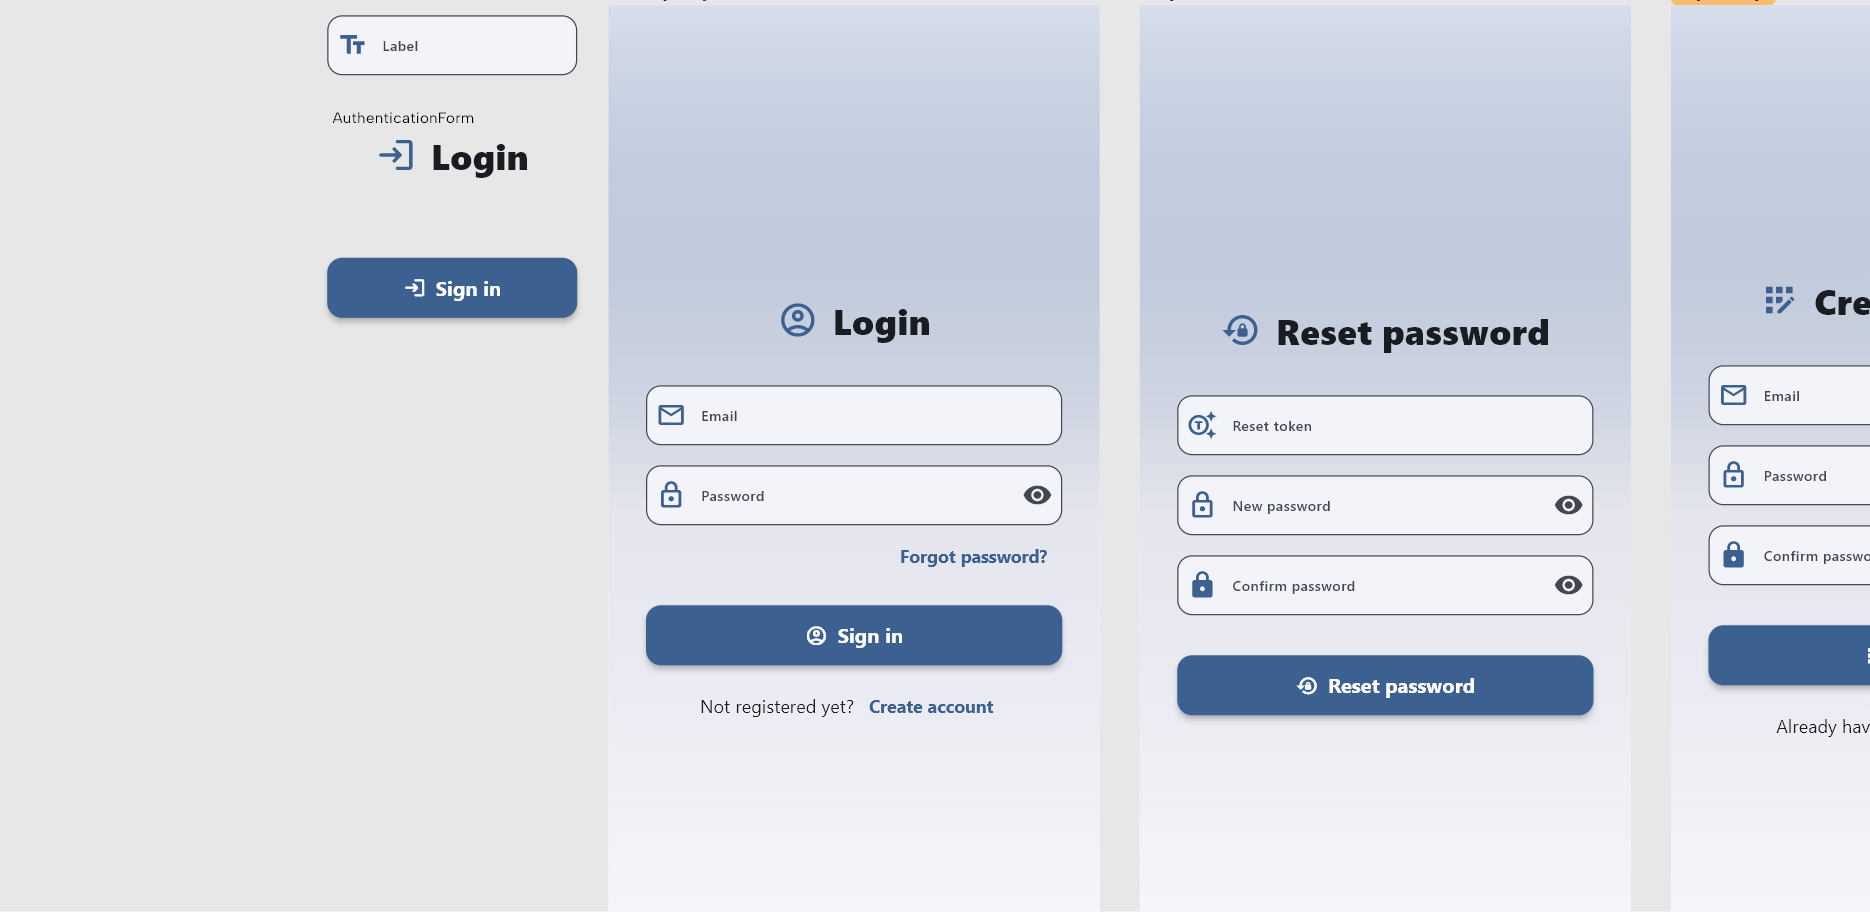
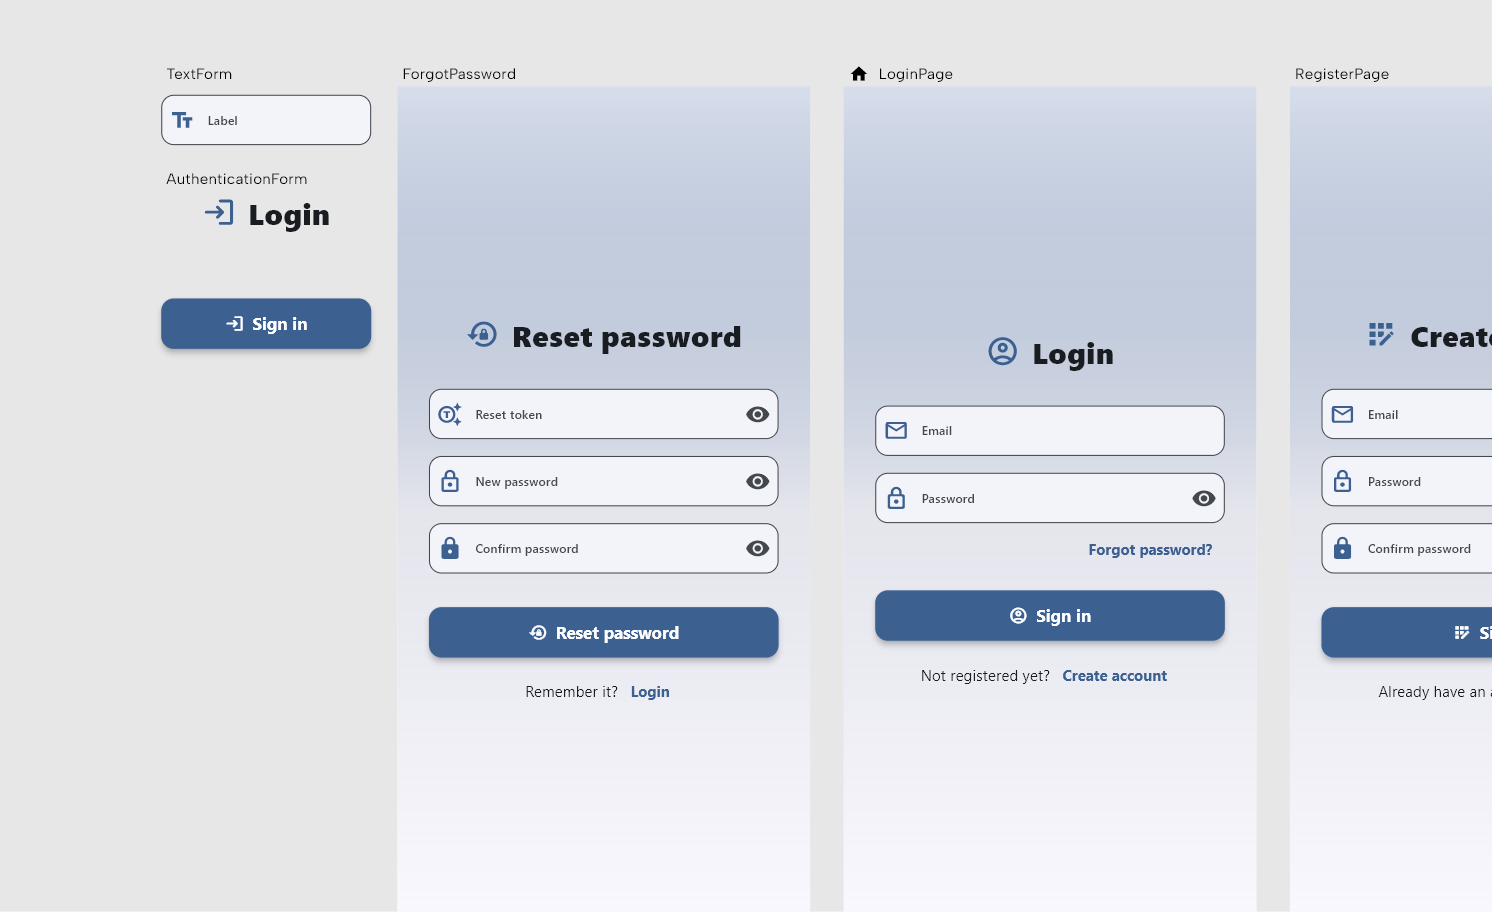
✨ Update layout and validation for authentication forms: adjust positions, enhance password requirements, and add error messages

diff --git a/lib/pages/forgot_password.dart b/lib/pages/forgot_password.dart
@@ -3,6 +3,7 @@ import 'package:nowa_runtime/nowa_runtime.dart';
 import 'package:railmates/authentication_form.dart';
 import 'package:railmates/text_form.dart';
 import 'package:railmates/integrations/supabase_service.dart';
+import 'package:railmates/pages/login_page.dart';
 
 @NowaGenerated()
 class ForgotPassword extends StatefulWidget {
@@ -66,61 +67,131 @@ class _ForgotPasswordState extends State<ForgotPassword> {
                           icon: Icons.generating_tokens_outlined,
                           controller: tokenController,
                           required: true,
+                          obscure: true,
+                          errorMessage: 'Token must be 6 digits',
+                          validators: [RegExp('^\\d{6}\$')],
                         ),
                         TextForm(
                           label: 'New password',
                           controller: newPasswordController,
                           obscure: true,
                           required: true,
-                          validators: [RegExp('^.{6,}\$')],
+                          validators: [
+                            RegExp(
+                              '^(?=.*[a-z])(?=.*[A-Z])(?=.*\\d)(?=.*[^a-zA-Z0-9]).{8,}\$',
+                            ),
+                          ],
                           icon: Icons.lock_outlined,
+                          errorMessage:
+                              'Required: 8+ chars, lowercase, uppercase, digit, symbol',
                         ),
-                        const TextForm(
+                        TextForm(
                           label: 'Confirm password',
                           required: true,
                           obscure: true,
                           icon: Icons.lock,
+                          errorMessage:
+                              'Required: 8+ chars, lowercase, uppercase, digit, symbol',
+                          validators: [
+                            RegExp(
+                              '^(?=.*[a-z])(?=.*[A-Z])(?=.*\\d)(?=.*[^a-zA-Z0-9]).{8,}\$',
+                            ),
+                          ],
+                          controller: confirmNewPasswordController,
                         ),
                       ],
                       submitForm: () {
-                        SupabaseService()
-                            .verifyOTP(widget.email!, tokenController!.text)
-                            .then(
-                              (result) {
-                                SupabaseService()
-                                    .updateUser(
-                                      widget.email,
-                                      newPasswordController?.text,
-                                    )
-                                    .then(
-                                      (value) {
-                                        ScaffoldMessenger.of(
-                                          context,
-                                        ).showSnackBar(
-                                          const SnackBar(
-                                            content: Text('Password changed !'),
-                                          ),
-                                        );
-                                      },
-                                      onError: (error) {
-                                        ScaffoldMessenger.of(
-                                          context,
-                                        ).showSnackBar(
-                                          SnackBar(
-                                            content: Text(error.toString()),
-                                          ),
-                                        );
-                                      },
-                                    );
-                              },
-                              onError: (error) {
-                                ScaffoldMessenger.of(context).showSnackBar(
-                                  SnackBar(content: Text(error.toString())),
-                                );
-                              },
-                            );
+                        if (newPasswordController?.text ==
+                            confirmNewPasswordController?.text) {
+                          SupabaseService()
+                              .verifyOTP(widget.email!, tokenController!.text)
+                              .then(
+                                (result) {
+                                  SupabaseService()
+                                      .updateUser(
+                                        widget.email,
+                                        newPasswordController?.text,
+                                      )
+                                      .then(
+                                        (value) {
+                                          ScaffoldMessenger.of(
+                                            context,
+                                          ).showSnackBar(
+                                            const SnackBar(
+                                              content: Text(
+                                                'Password successfully changed !',
+                                              ),
+                                            ),
+                                          );
+                                        },
+                                        onError: (error) {
+                                          ScaffoldMessenger.of(
+                                            context,
+                                          ).showSnackBar(
+                                            SnackBar(
+                                              content: Text(error.toString()),
+                                            ),
+                                          );
+                                        },
+                                      );
+                                },
+                                onError: (error) {
+                                  ScaffoldMessenger.of(context).showSnackBar(
+                                    SnackBar(content: Text(error.toString())),
+                                  );
+                                },
+                              );
+                        } else {
+                          ScaffoldMessenger.of(context).showSnackBar(
+                            const SnackBar(
+                              content: Text(
+                                'Password confirmation does not match',
+                              ),
+                            ),
+                          );
+                        }
                       },
                       buttonName: 'Reset password',
+                    ),
+                  ),
+                  FlexSizedBox(
+                    width: double.infinity,
+                    child: Padding(
+                      padding: const EdgeInsets.only(
+                        top: 16.0,
+                        bottom: 0.0,
+                        left: 0.0,
+                        right: 0.0,
+                      ),
+                      child: Row(
+                        mainAxisAlignment: MainAxisAlignment.center,
+                        children: [
+                          Text(
+                            'Remember it?',
+                            style: TextStyle(
+                              fontSize: 14.0,
+                              color: Theme.of(context).colorScheme.onSurface,
+                            ),
+                          ),
+                          TextButton(
+                            onPressed: () {
+                              Navigator.of(context).push(
+                                MaterialPageRoute(
+                                  builder: (context) => const LoginPage(),
+                                ),
+                              );
+                            },
+                            child: Text(
+                              'Login',
+                              style: TextStyle(
+                                fontWeight: FontWeight.w700,
+                                fontSize: 14.0,
+                                color: Theme.of(context).colorScheme.primary,
+                              ),
+                            ),
+                          ),
+                        ],
+                      ),
                     ),
                   ),
                 ],

diff --git a/lib/pages/register_page.dart b/lib/pages/register_page.dart
@@ -62,50 +62,61 @@ class _RegisterPageState extends State<RegisterPage> {
                       nom: 'Create account',
                       buttonName: 'Sign up',
                       submitForm: () {
-                        SupabaseService()
-                            .signUp(
-                              emailController!.text,
-                              passwordController!.text,
-                            )
-                            .then(
-                              (value) {
-                                ScaffoldMessenger.of(context).showSnackBar(
-                                  const SnackBar(
-                                    content: Text('Registration successful!'),
-                                  ),
-                                );
-                                Navigator.of(context).push(
-                                  MaterialPageRoute(
-                                    builder: (context) => const ProfilePage(),
-                                  ),
-                                );
-                              },
-                              onError: (error) {
-                                if (error.toString().contains(
-                                  'user_already_exist',
-                                )) {
+                        if (passwordController?.text ==
+                            confirmPasswordController?.text) {
+                          SupabaseService()
+                              .signUp(
+                                emailController!.text,
+                                passwordController!.text,
+                              )
+                              .then(
+                                (value) {
                                   ScaffoldMessenger.of(context).showSnackBar(
-                                    SnackBar(
-                                      content: const Text(
-                                        'The email address is already associated with another account',
-                                      ),
-                                      backgroundColor: Theme.of(
-                                        context,
-                                      ).colorScheme.onErrorContainer,
+                                    const SnackBar(
+                                      content: Text('Registration successful!'),
                                     ),
                                   );
                                   Navigator.of(context).push(
                                     MaterialPageRoute(
-                                      builder: (context) => const LoginPage(),
+                                      builder: (context) => const ProfilePage(),
                                     ),
                                   );
-                                } else {
-                                  ScaffoldMessenger.of(context).showSnackBar(
-                                    SnackBar(content: Text(error.toString())),
-                                  );
-                                }
-                              },
-                            );
+                                },
+                                onError: (error) {
+                                  if (error.toString().contains(
+                                    'user_already_exist',
+                                  )) {
+                                    ScaffoldMessenger.of(context).showSnackBar(
+                                      SnackBar(
+                                        content: const Text(
+                                          'The email address is already associated with another account',
+                                        ),
+                                        backgroundColor: Theme.of(
+                                          context,
+                                        ).colorScheme.onErrorContainer,
+                                      ),
+                                    );
+                                    Navigator.of(context).push(
+                                      MaterialPageRoute(
+                                        builder: (context) => const LoginPage(),
+                                      ),
+                                    );
+                                  } else {
+                                    ScaffoldMessenger.of(context).showSnackBar(
+                                      SnackBar(content: Text(error.toString())),
+                                    );
+                                  }
+                                },
+                              );
+                        } else {
+                          ScaffoldMessenger.of(context).showSnackBar(
+                            const SnackBar(
+                              content: Text(
+                                'Password confirmation does not match',
+                              ),
+                            ),
+                          );
+                        }
                       },
                       textFields: [
                         TextForm(
@@ -118,14 +129,24 @@ class _RegisterPageState extends State<RegisterPage> {
                             ),
                           ],
                           icon: Icons.email_outlined,
+                          errorMessage: 'Invalid format',
                         ),
                         TextForm(
                           label: 'Password',
                           required: true,
                           obscure: true,
-                          validators: [RegExp('^.{6,}\$')],
+                          validators: [
+                            RegExp(
+                              '^(?=.*[a-z])(?=.*[A-Z])(?=.*\\d)(?=.*[^a-zA-Z0-9]).{8,}\$',
+                              caseSensitive: true,
+                              multiLine: false,
+                              dotAll: false,
+                            ),
+                          ],
                           controller: passwordController,
                           icon: Icons.lock_outlined,
+                          errorMessage:
+                              'Required: 8+ chars, lowercase, uppercase, digit, symbol',
                         ),
                         TextForm(
                           label: 'Confirm password',
@@ -133,6 +154,13 @@ class _RegisterPageState extends State<RegisterPage> {
                           required: true,
                           controller: confirmPasswordController,
                           icon: Icons.lock,
+                          validators: [
+                            RegExp(
+                              '^(?=.*[a-z])(?=.*[A-Z])(?=.*\\d)(?=.*[^a-zA-Z0-9]).{8,}\$',
+                            ),
+                          ],
+                          errorMessage:
+                              'Required: 8+ chars, lowercase, uppercase, digit, symbol',
                         ),
                       ],
                       icon: Icons.app_registration,

diff --git a/lib/pages/login_page.dart b/lib/pages/login_page.dart
@@ -81,6 +81,7 @@ class _LoginPageState extends State<LoginPage> {
                         ],
                         obscure: false,
                         icon: Icons.email_outlined,
+                        errorMessage: 'Invalid format',
                       ),
                       TextForm(
                         label: 'Password',
@@ -88,6 +89,13 @@ class _LoginPageState extends State<LoginPage> {
                         controller: passwordController,
                         obscure: true,
                         icon: Icons.lock_outline_rounded,
+                        validators: [
+                          RegExp(
+                            '^(?=.*[a-z])(?=.*[A-Z])(?=.*\\d)(?=.*[^a-zA-Z0-9]).{8,}\$',
+                          ),
+                        ],
+                        errorMessage:
+                            'Required: 8+ chars, lowercase, uppercase, digit, symbol',
                       ),
                       Align(
                         alignment: const Alignment(1.0, 0.0),

diff --git a/lib/text_form.dart b/lib/text_form.dart
@@ -13,7 +13,7 @@ class TextForm extends StatefulWidget {
     this.required = false,
     this.obscure = false,
     this.onChanged,
-    this.errorMessage = 'Format invalide',
+    this.errorMessage = 'Invalid format',
     this.validators,
     this.interactiveSelection = true,
     super.key,
